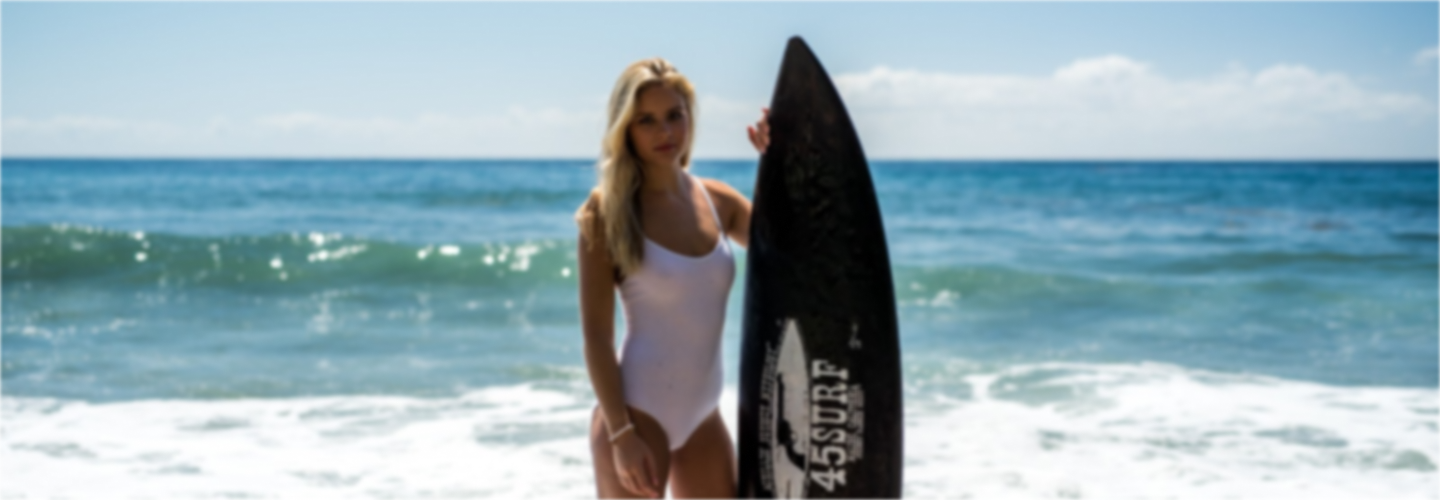
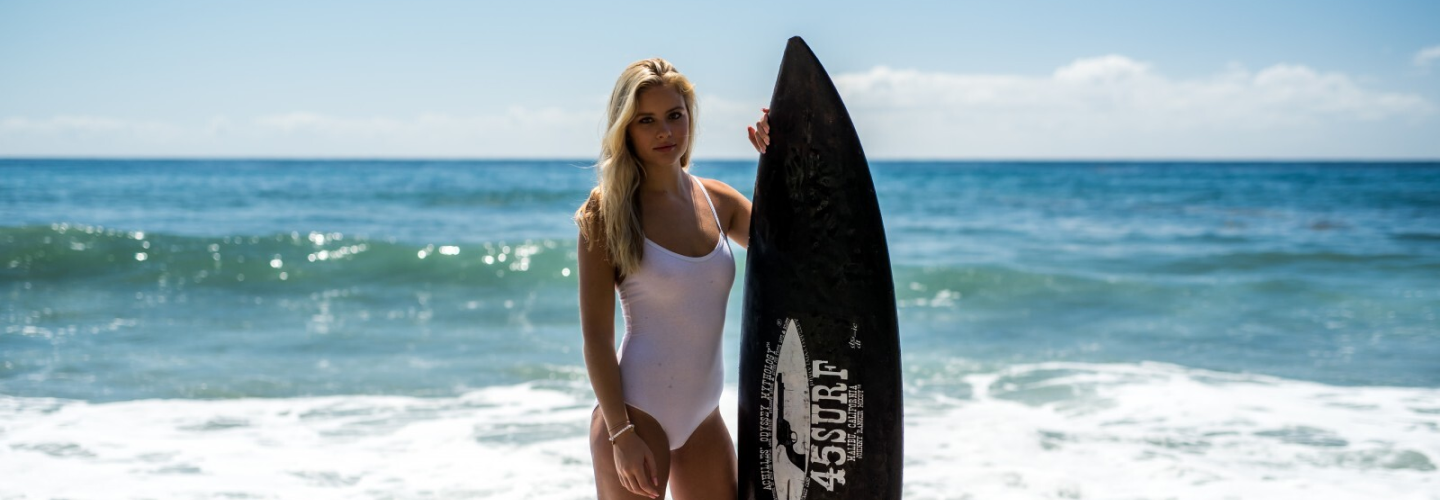
Surf-01: makes hover blur in the greetings section

diff --git a/src/scss/greetings.scss b/src/scss/greetings.scss
@@ -1,10 +1,17 @@
 .greetings {
   height: 590px;
-  background-image: url("../img/backgrounds/greetings-bg1.png");
-  background-repeat: no-repeat;
-  background-position: top center;
-  background-size: contain;
-  filter: drop-shadow(0px 4px 4px rgba(0, 0, 0, 0.25));
+  
+  &__background {
+    position: absolute;
+    width: 100%;
+    height: 590px;
+    background-image: url("../img/backgrounds/greetings-bg1.png");
+    background-repeat: no-repeat;
+    background-position: top center;
+    background-size: contain;
+    filter: drop-shadow(0px 4px 4px rgba(0, 0, 0, 0.25));
+    z-index: -1;
+  }
 
   &__inner {
     margin-left: auto;
@@ -27,7 +34,20 @@
 .catalog {
   .greetings {
     height: 500px;
-    background-image: url("../img/backgrounds/catalog-greetings-bg1.png");
+
+    &:hover {
+      .greetings__background {
+        filter: blur(0px) drop-shadow(0px 4px 4px rgba(0, 0, 0, 0.25));
+        transition: all 0.3s ease-in;
+      }
+    }
+
+    &__background {
+      height: 500px;
+      background-image: url("../img/backgrounds/catalog-greetings-bg1.png");
+      filter: blur(2px);
+      transition: all 0.3s ease-in;
+    }
 
     &__inner {
       width: 550px;
@@ -38,7 +58,11 @@
 .catalog-category {
   .greetings {
     height: 500px;
-    background-image: url("../img/backgrounds/catalog-category-greetings-bg1.png");
+
+    &__background {
+      height: 500px;
+      background-image: url("../img/backgrounds/catalog-category-greetings-bg1.png");
+    }
 
     &__inner {
       width: 550px;
@@ -49,14 +73,38 @@
 .about-us {
   .greetings {
     height: 560px;
-    background-image: url("../img/backgrounds/aboutus-greetings-bg1.png");
+    &:hover {
+      .greetings__background {
+        filter: blur(0px) drop-shadow(0px 4px 4px rgba(0, 0, 0, 0.25));
+        transition: all 0.3s ease-in;
+      }
+    }
+
+    &__background {
+      height: 560px;
+      background-image: url("../img/backgrounds/aboutus-greetings-bg1.png");
+      filter: blur(2px);
+      transition: all 0.3s ease-in;
+    }
   }
 }
 
 .blog {
   .greetings {
     height: 650px;
-    background-image: url("../img/backgrounds/blogsection-greetings-bg1.png");
+    &:hover {
+      .greetings__background {
+        filter: blur(0px) drop-shadow(0px 4px 4px rgba(0, 0, 0, 0.25));
+        transition: all 0.3s ease-in;
+      }
+    }
+
+    &__background {
+      height: 650px;
+      background-image: url("../img/backgrounds/blogsection-greetings-bg1.png");
+      filter: blur(2px);
+      transition: all 0.3s ease-in;
+    }
 
     &__inner {
       width: 535px;
@@ -67,7 +115,10 @@
 
 @media screen and (max-width: 1440px) {
   .greetings {
-    background-image: url("../img/backgrounds/greetings-bg2.png");
+    &__background {
+      background-image: url("../img/backgrounds/greetings-bg2.png");
+    }
+
     &__inner {
       margin-left: 0;
       margin-right: auto;
@@ -85,25 +136,33 @@
 
   .catalog {
     .greetings {
-      background-image: url("../img/backgrounds/catalog-greetings-bg2.png");
+      &__background {
+        background-image: url("../img/backgrounds/catalog-greetings-bg2.png");
+      }
     }
   }
 
   .catalog-category {
     .greetings {
-      background-image: url("../img/backgrounds/catalog-category-greetings-bg2.png");
+      &__background {
+        background-image: url("../img/backgrounds/catalog-category-greetings-bg2.png");
+      }
     }
   }
 
   .about-us {
     .greetings {
-      background-image: url("../img/backgrounds/aboutus-greetings-bg2.png");
+      &__background {
+        background-image: url("../img/backgrounds/aboutus-greetings-bg2.png");
+      }
     }
   }
 
   .blog {
     .greetings {
-      background-image: url("../img/backgrounds/blogsection-greetings-bg2.png");
+      &__background {
+        background-image: url("../img/backgrounds/blogsection-greetings-bg2.png");
+      }
 
       &__inner {
         margin-left: auto;
@@ -117,7 +176,9 @@
 
 @media screen and (max-width: 992px) {
   .greetings {
-    background-image: url("../img/backgrounds/greetings-bg3.png");
+    &__background {
+      background-image: url("../img/backgrounds/greetings-bg3.png");
+    }
     &__inner {
       width: 400px;
       padding-top: 175px;
@@ -138,7 +199,9 @@
 
   .catalog {
     .greetings {
-      background-image: url("../img/backgrounds/catalog-greetings-bg3.png");
+      &__background {
+        background-image: url("../img/backgrounds/catalog-greetings-bg3.png");
+      }
 
       &__inner {
         width: 492px;
@@ -148,7 +211,9 @@
 
   .catalog-category {
     .greetings {
-      background-image: url("../img/backgrounds/catalog-category-greetings-bg3.png");
+      &__background {
+        background-image: url("../img/backgrounds/catalog-category-greetings-bg3.png");
+      }
 
       &__inner {
         width: 492px;
@@ -158,13 +223,17 @@
 
   .about-us {
     .greetings {
-      background-image: url("../img/backgrounds/aboutus-greetings-bg3.png");
+      &__background {
+        background-image: url("../img/backgrounds/aboutus-greetings-bg3.png");
+      }
     }
   }
 
   .blog {
     .greetings {
-      background-image: url("../img/backgrounds/blogsection-greetings-bg3.png");
+      &__background {
+        background-image: url("../img/backgrounds/blogsection-greetings-bg3.png");
+      }
 
       &__inner {
         padding-top: 300px;
@@ -177,7 +246,9 @@
 
 @media screen and (max-width: 768px) {
   .greetings {
-    background-size: auto 100%;
+    &__background {
+      background-size: auto 100%;
+    }
 
     &__inner {
       width: 280px;
@@ -243,8 +314,8 @@
 
 @media screen and (max-width: 320px) {
   .greetings {
-    background-image: url("../img/backgrounds/greetings-bg4.png");
-    background-size: auto;
+      background-image: url("../img/backgrounds/greetings-bg4.png");
+      background-size: auto;
   }
 
   .catalog {

diff --git a/src/js/modules/modal.js b/src/js/modules/modal.js
@@ -5,6 +5,7 @@ export function modal(modalClass, modalBtnClass, btnCloseClass, focusInputId) {
     const main = document.querySelector('.main');
     const header = document.querySelector('.header');
     const footer = document.querySelector('.footer');
+    const hiddenClass = 'hidden';
 
     if (!modal) {
         return;
@@ -14,9 +15,9 @@ export function modal(modalClass, modalBtnClass, btnCloseClass, focusInputId) {
         modalBtn.addEventListener('click', (e) => {
             e.preventDefault();
             modal.classList.add('modal--active');
-            main.classList.add('visually-hidden');
-            header.classList.add('visually-hidden');
-            footer.classList.add('visually-hidden');
+            main.classList.add(hiddenClass);
+            header.classList.add(hiddenClass);
+            footer.classList.add(hiddenClass);
 
             if (focusInputId) {
                 const focusInput = document.querySelector(`#${focusInputId}`);
@@ -27,9 +28,9 @@ export function modal(modalClass, modalBtnClass, btnCloseClass, focusInputId) {
 
     btnClose.addEventListener('click', () => {
         modal.classList.remove('modal--active');
-        main.classList.remove('visually-hidden');
-        header.classList.remove('visually-hidden');
-        footer.classList.remove('visually-hidden');
+        main.classList.remove(hiddenClass);
+        header.classList.remove(hiddenClass);
+        footer.classList.remove(hiddenClass);
     });
 
     document.addEventListener('click', event => {
@@ -38,9 +39,9 @@ export function modal(modalClass, modalBtnClass, btnCloseClass, focusInputId) {
             event.stopPropagation();
         } else if (target.closest('.modal')) {
             modal.classList.remove('modal--active');
-            main.classList.remove('visually-hidden');
-            header.classList.remove('visually-hidden');
-            footer.classList.remove('visually-hidden');
+            main.classList.remove(hiddenClass);
+            header.classList.remove(hiddenClass);
+            footer.classList.remove(hiddenClass);
         }
     });
 }

diff --git a/src/js/sliderClass.js b/src/js/sliderClass.js
@@ -40,18 +40,13 @@ class Slider {
                 this._options[key] = options[key];
             }
         }
-        // добавляем к слайдам data-атрибуты
-        for (let i = 0; i < this._itemList.length; i++) {
-            this._itemList[i].dataset.order = i;
-            this._itemList[i].dataset.index = i;
-        }
         // скрываем в начальном состоянии кнопку назад
         this._checkBtnsVisibility();
         // назначаем обработчики
         this._addEventListener();
-        // Добавляем индикаторы
+        // добавляем индикаторы
         this._addIndicators();
-        // Устанавливаем активный класс индикатора
+        // устанавливаем активный класс индикатора
         this._setIndicators();
     }
 

diff --git a/src/scss/slider.scss b/src/scss/slider.scss
@@ -45,6 +45,19 @@
       background-color: $color-primary-main;
     }
   }
+
+  .visually-hidden {
+    position: absolute;
+    width: 1px;
+    height: 1px;
+    margin: -1px;
+    border: 0;
+    padding: 0;
+    white-space: nowrap;
+    clip-path: inset(100%);
+    clip: rect(0 0 0 0);
+    overflow: hidden;
+  }
 }
 
 @media screen and (max-width: 768px) {

diff --git a/src/scss/global.scss b/src/scss/global.scss
@@ -94,6 +94,10 @@ body {
   overflow: hidden;
 }
 
+.hidden {
+  opacity: 0;
+}
+
 .unselectable {
   -webkit-touch-callout: none; /* iOS Safari */
   -webkit-user-select: none;   /* Chrome/Safari/Opera */
